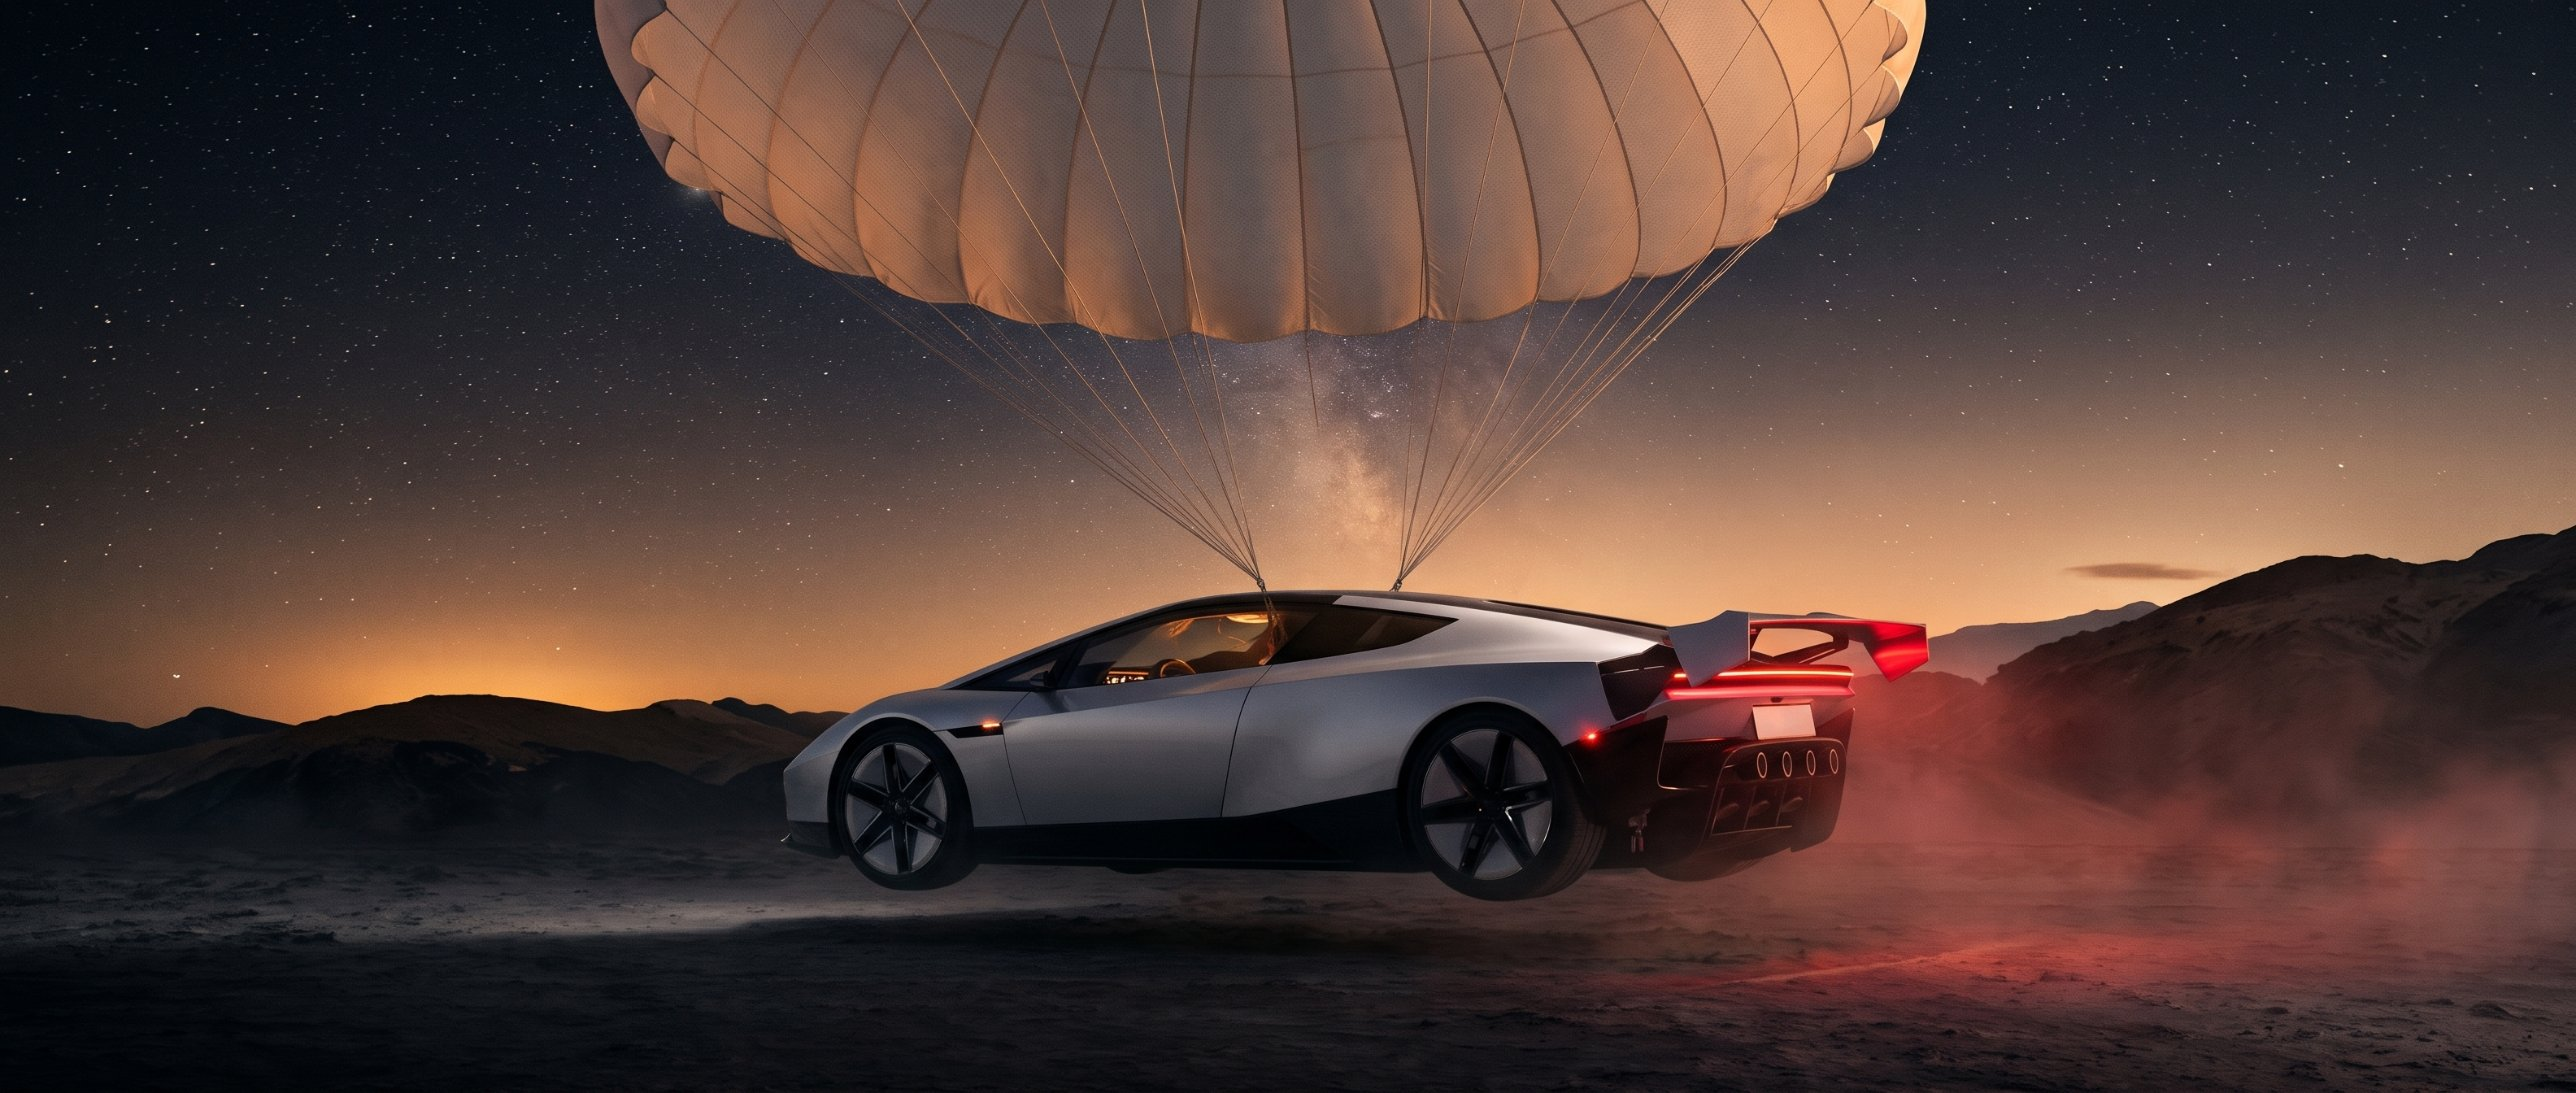
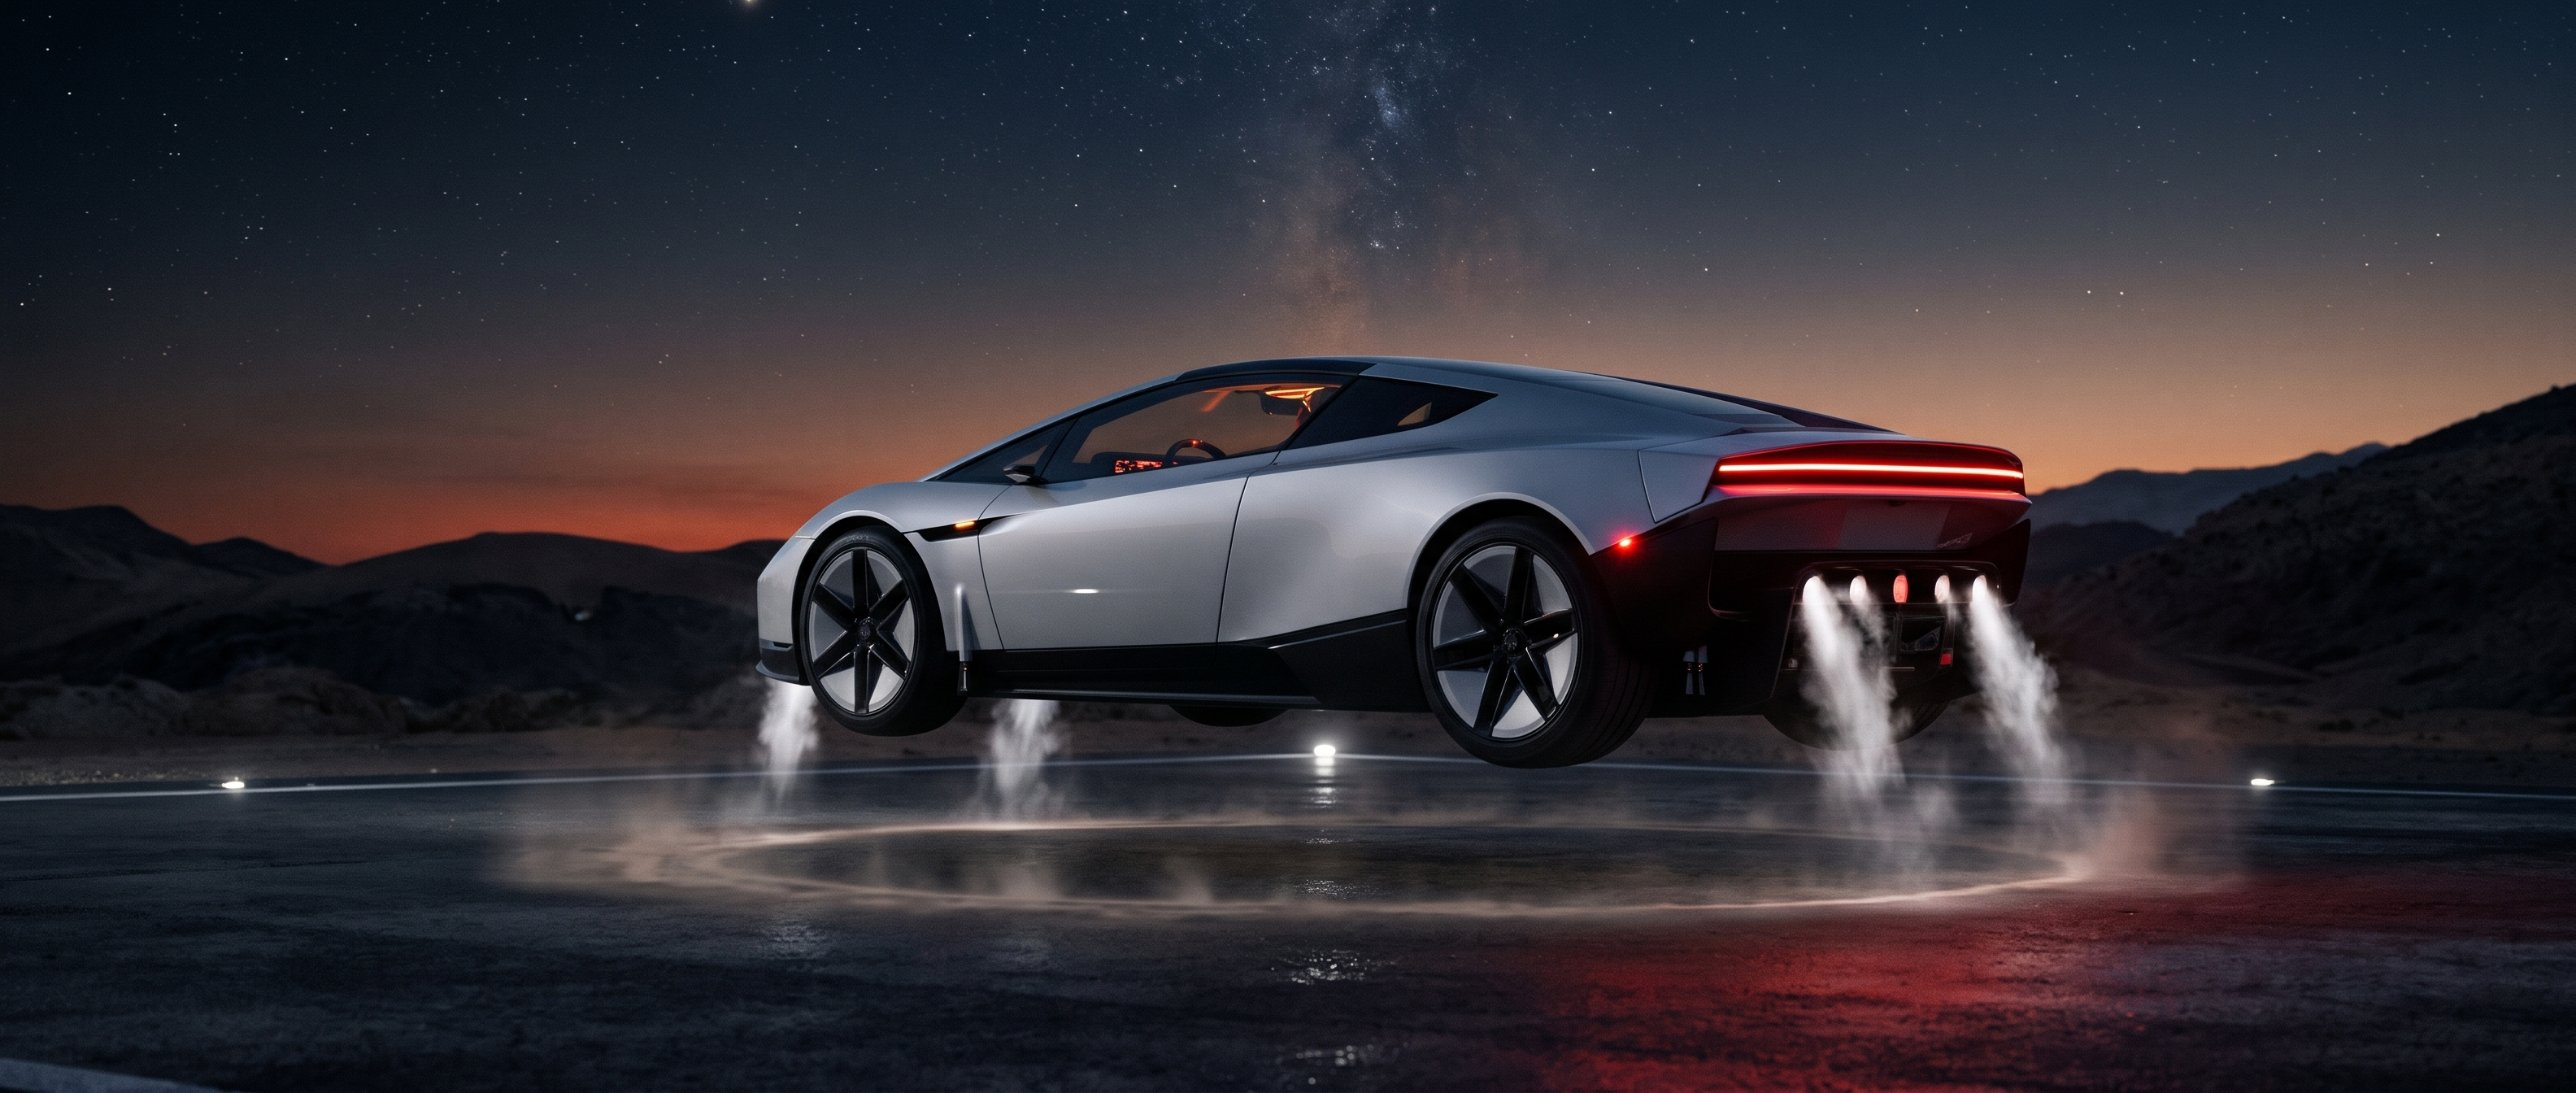
Safety picture: vehicle stabilising mid-hop on cold-gas thrusters; phone crop shows the rear thrusters
Claude-Session: https://claude.ai/code/session_01BbpThuGCFGRji7S9sW8HB3

diff --git a/public/css/pioneer.css b/public/css/pioneer.css
@@ -682,7 +682,7 @@ body.studio[data-backdrop] .gate .eyebrow{color:#d6d6d9;text-shadow:0 0 10px #00
 
 /* wide pictures in the stacked sections: show most of the picture instead of a square crop */
 @media(min-width:601px){.v-stack .v-bg{height:min(56vw,1100px)}}
-@media(max-width:600px){#training .v-fallback{object-position:28% 50%}#safety .v-fallback{object-position:55% 50%}}
+@media(max-width:600px){#training .v-fallback{object-position:28% 50%}#safety .v-fallback{object-position:69% 50%}}
 
 /* closing section laid out like the reference: full-bleed picture with the name near its top, the button right under the picture, the note below */
 .v-end{display:block;min-height:0;overflow:hidden}
